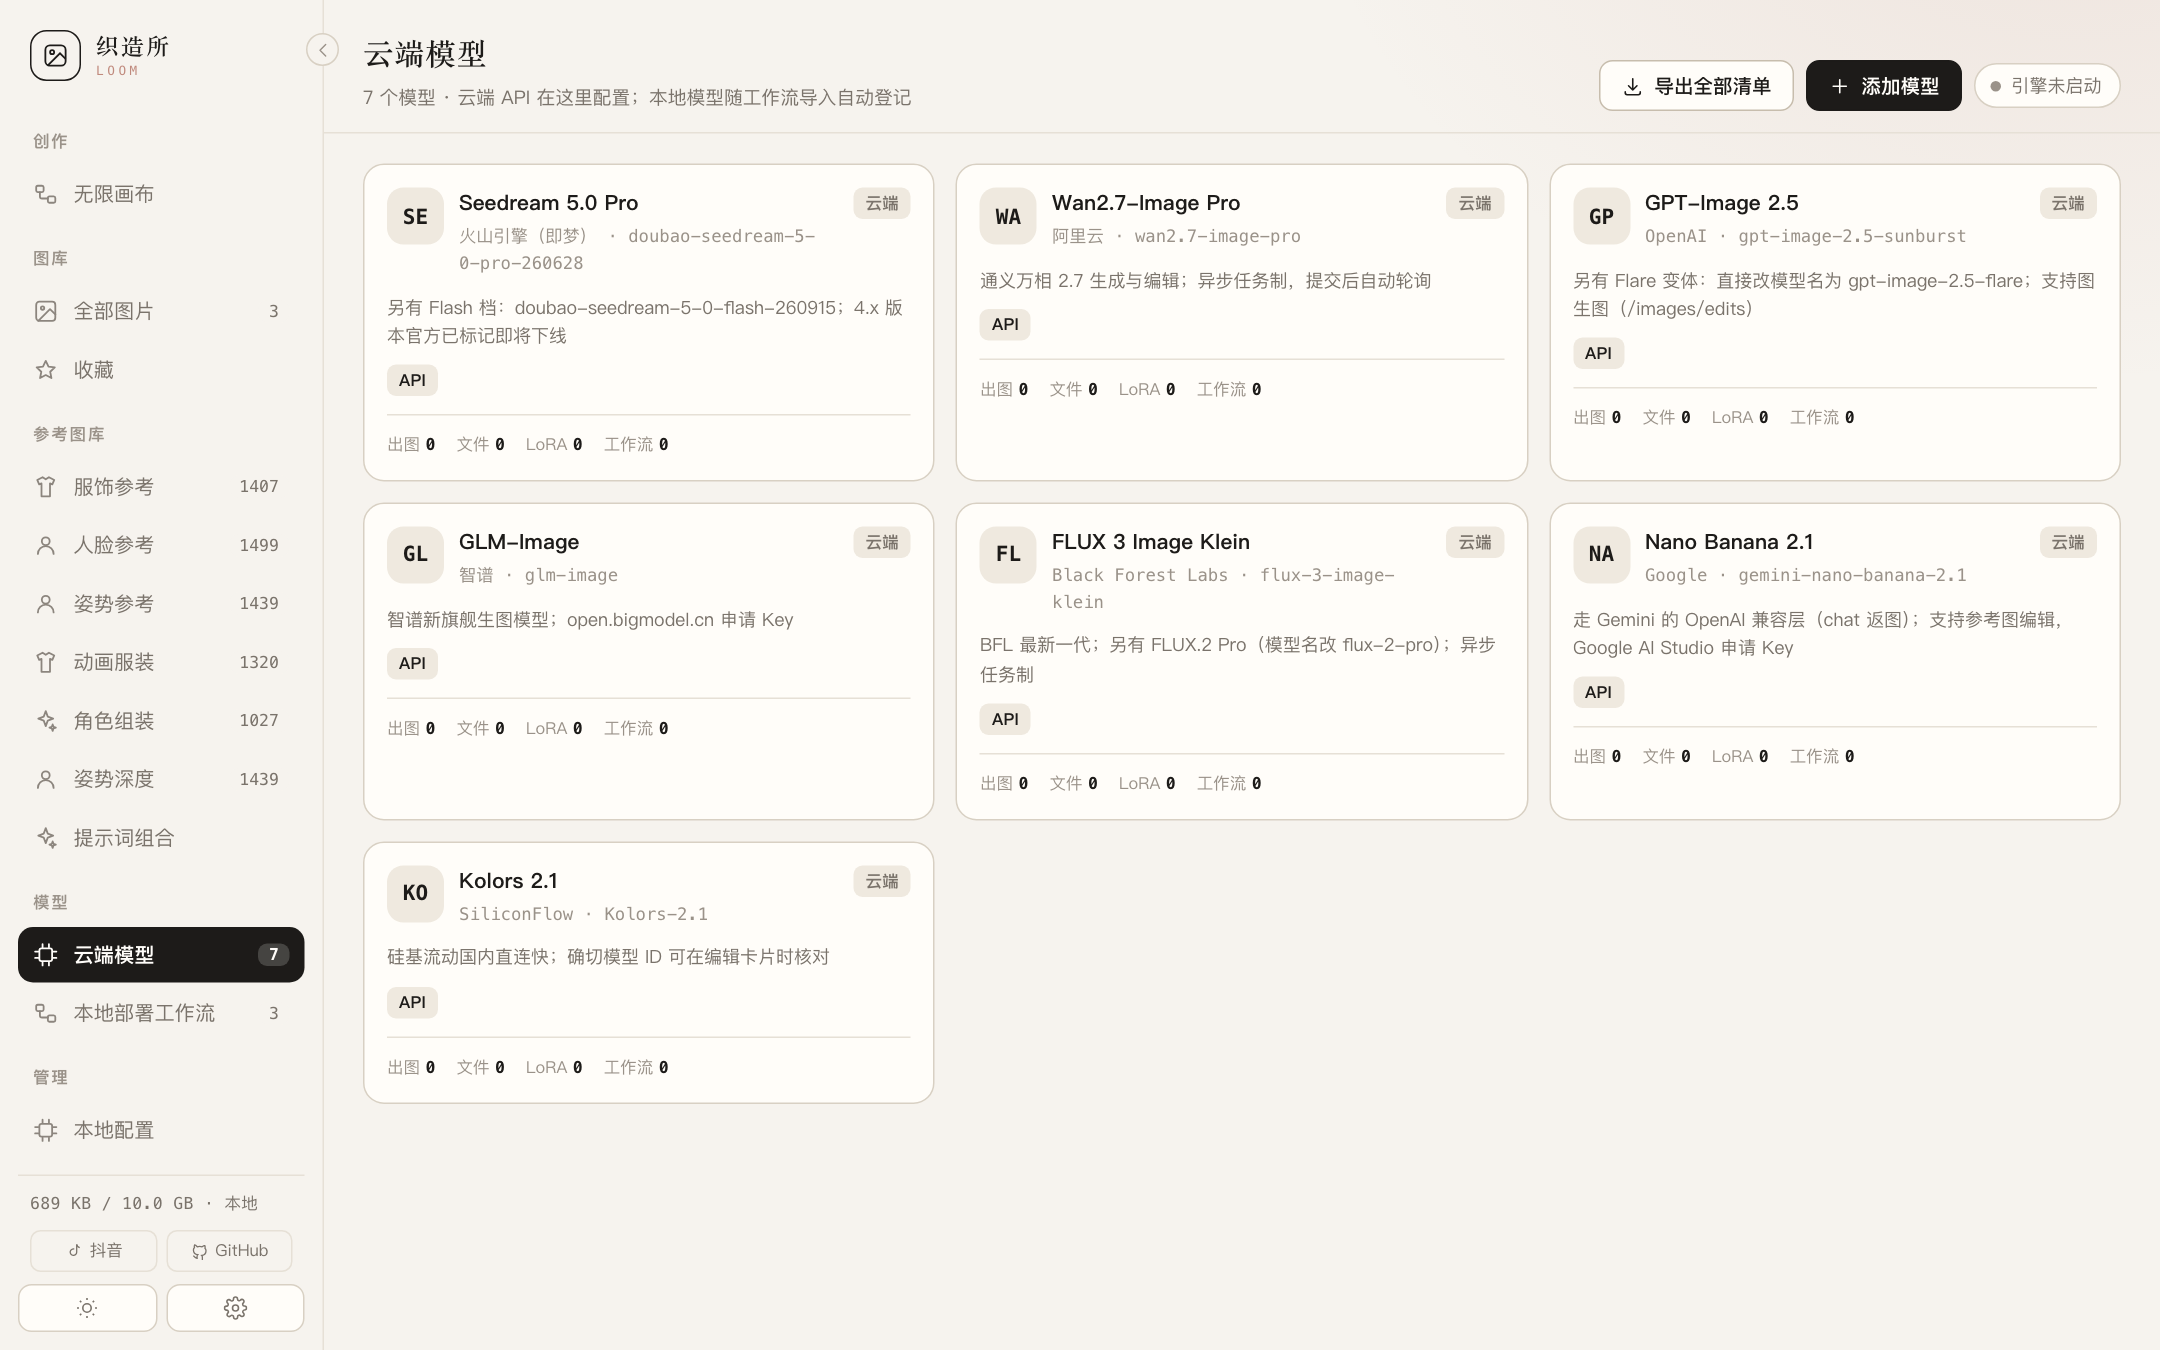
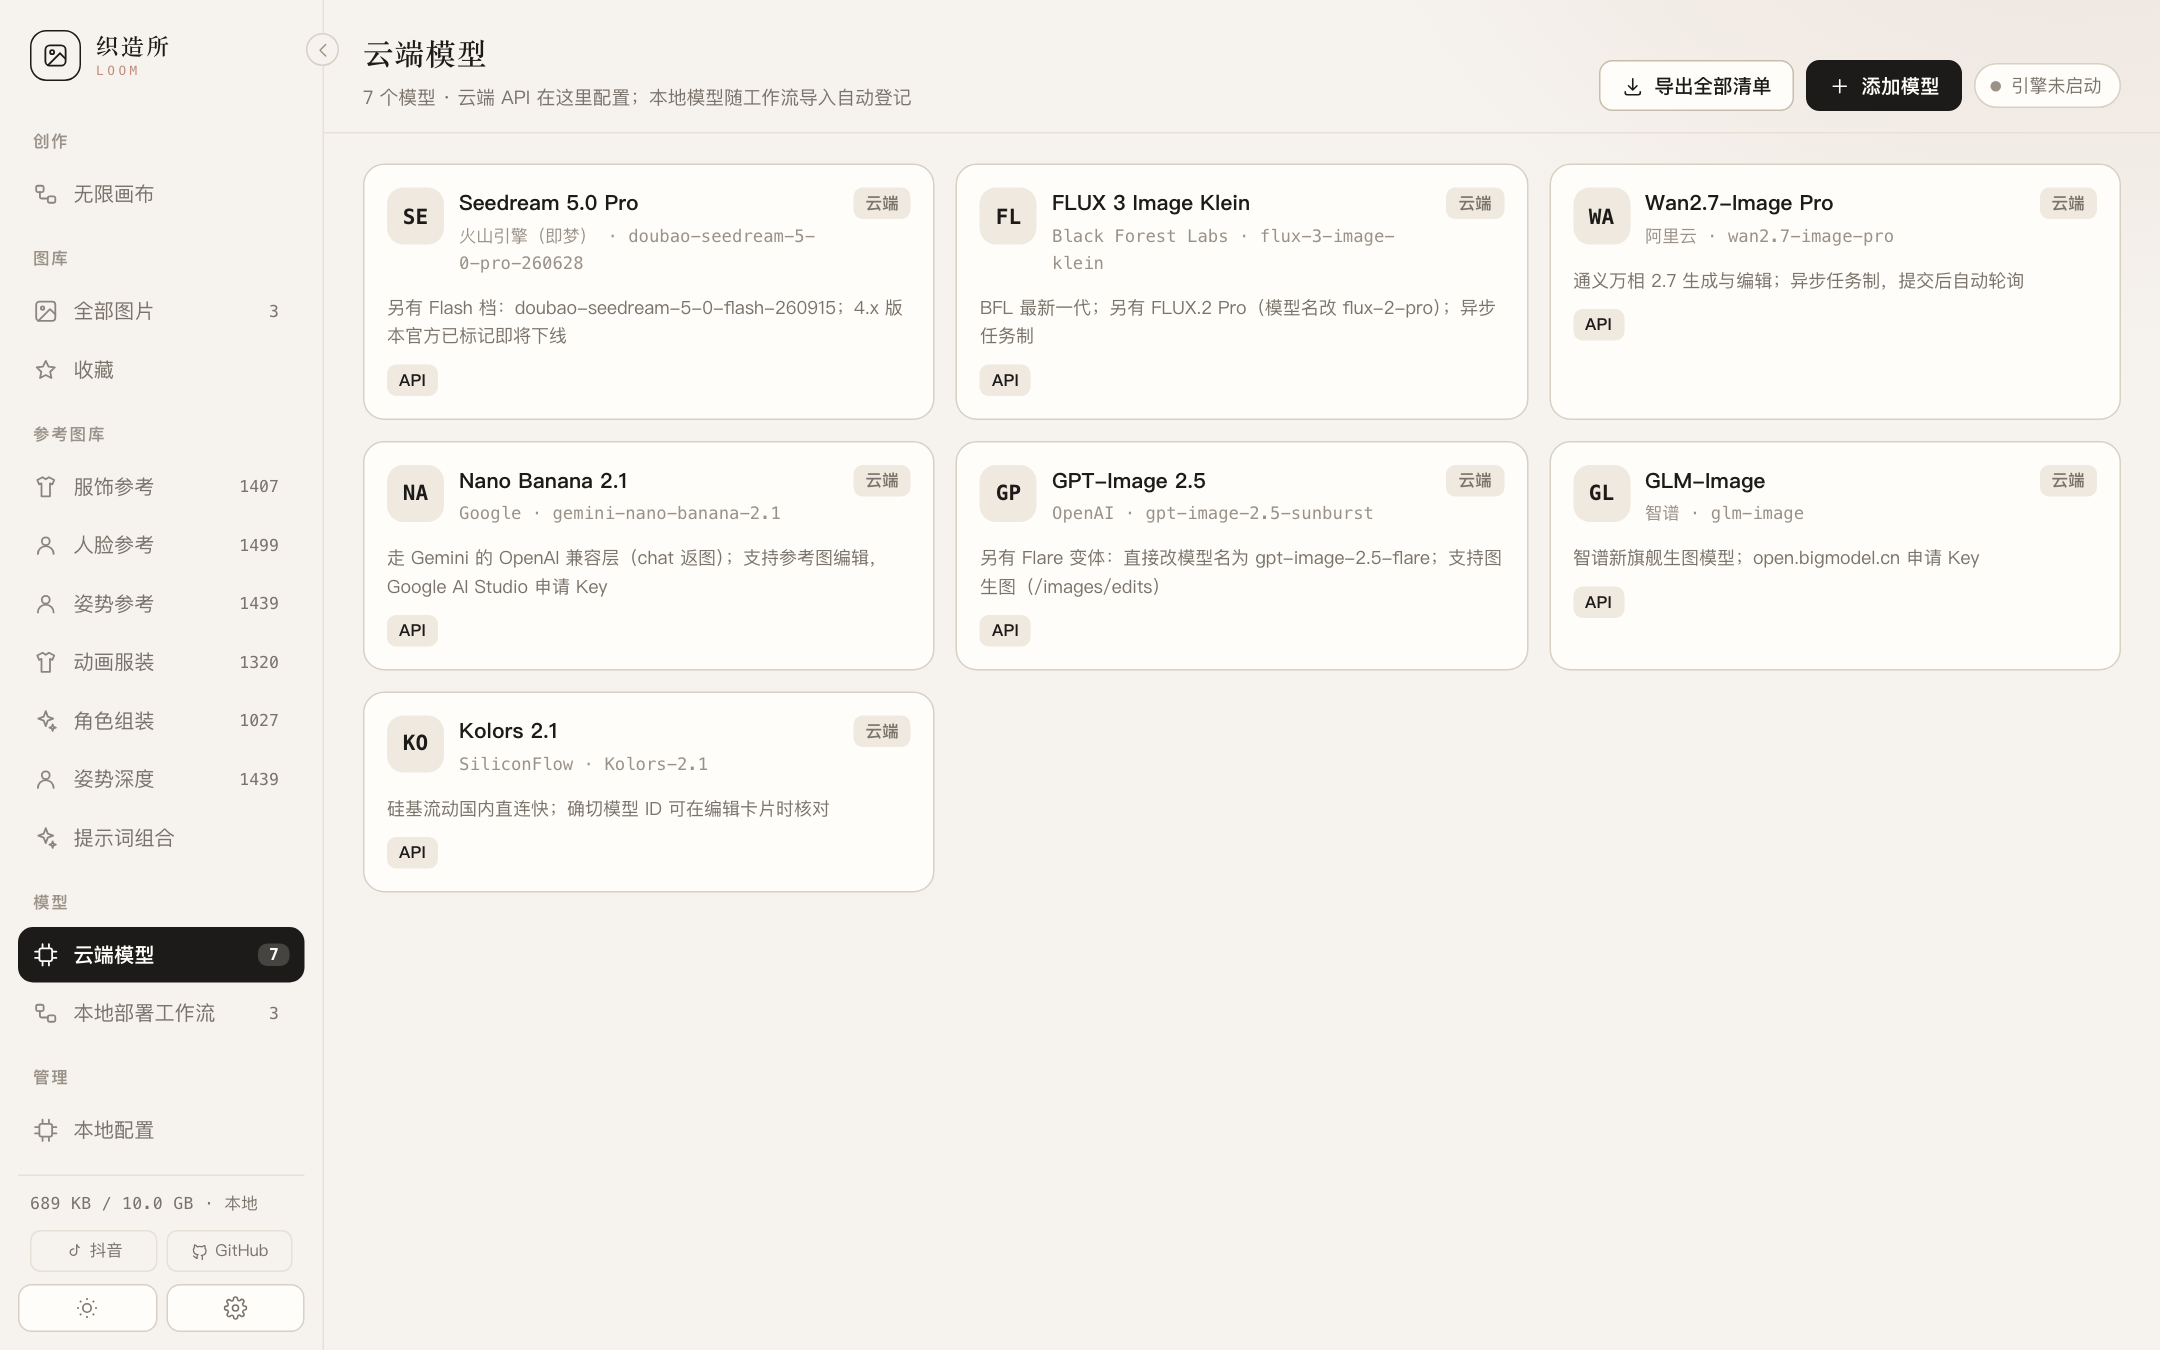
fix(ui): 云端模型卡片不再显示「出图/文件/LoRA/工作流」统计，详情页隐藏空的部署文件栏

diff --git a/assets/manage.js b/assets/manage.js
@@ -33,6 +33,9 @@
     const files = (m.files || []).length;
     const wfs = (m.workflowIds || []).length;
     const loras = (m.loraIds || []).length;
+    // 云端模型走 API，没有本地文件 / LoRA / 工作流关联，这一行统计对它永远是 0，
+    // 摆着反而像出错。只在本地部署的模型上显示。
+    const showMeta = m.type === 'local';
     return `<div class="model-card" data-act="model-open" data-id="${m.id}">
       <div class="model-card-head">
         <div class="model-card-icon">${esc((m.name || '?').slice(0, 2).toUpperCase())}</div>
@@ -48,12 +51,12 @@
         ${m.endpoint ? `<span class="badge mono">${esc(m.endpoint.replace(/^https?:\/\//, ''))}</span>` : ''}
         ${m.access ? `<span class="badge">${esc(m.access)}</span>` : ''}
       </div>
-      <div class="model-meta">
+      ${showMeta ? `<div class="model-meta">
         <span>出图 <b>${imgs}</b></span>
         <span>文件 <b>${files}</b></span>
         <span>LoRA <b>${loras}</b></span>
         <span>工作流 <b>${wfs}</b></span>
-      </div>
+      </div>` : ''}
     </div>`;
   }
 
@@ -271,6 +274,8 @@
     const loras = (m.loraIds || []).map(x => V.state.loras.find(l => l.id === x)).filter(Boolean);
     const wfs = (m.workflowIds || []).map(x => V.state.workflows.find(w => w.id === x)).filter(Boolean);
     const files = m.files || [];
+    // 云端模型没有本地部署文件，这一栏对它永远是空的，直接不显示
+    const showFiles = m.type === 'local' || files.length > 0;
 
     openModal({
       title: m.name,
@@ -282,14 +287,14 @@
           ${m.endpoint ? `<span class="badge mono">${esc(m.endpoint)}</span>` : ''}
           ${m.access ? `<span class="badge">${esc(m.access)}</span>` : ''}
           <div style="flex:1"></div>
-          ${m.endpoint ? `<button class="btn sm" data-open-url="${esc(m.endpoint)}">${icon('link', 12)} 打开 ComfyUI</button>` : ''}
+          ${m.endpoint ? `<button class="btn sm" data-open-url="${esc(m.endpoint)}">${icon('link', 12)} ${m.type === 'local' ? '打开 ComfyUI' : '打开接口地址'}</button>` : ''}
           <button class="btn sm" data-act="model-edit" data-id="${m.id}">${icon('edit', 12)} 编辑</button>
           <button class="btn sm" data-act="model-manifest" data-id="${m.id}">${icon('down', 12)} 部署清单</button>
         </div>
 
         ${m.desc ? `<p style="font-size:12.5px;color:var(--text-2);line-height:1.7;margin:0 0 14px">${esc(m.desc)}</p>` : ''}
 
-        <div class="section" style="margin-top:0">
+        ${showFiles ? `<div class="section" style="margin-top:0">
           <div class="section-title">部署文件（${files.length}）<span></span></div>
           ${files.length ? `<table class="file-table">
             <thead><tr><th style="width:130px">类型</th><th>文件</th><th style="width:80px">体积</th><th style="width:70px">链接</th></tr></thead>
@@ -300,7 +305,7 @@
               <td>${f.url ? `<a href="${esc(f.url)}" target="_blank" rel="noopener">下载</a>` : '<span style="color:var(--text-3)">—</span>'}</td>
             </tr>`).join('')}</tbody>
           </table>` : `<p style="font-size:12px;color:var(--text-3);margin:0">还没有登记文件。点「编辑」把 checkpoint / LoRA / VAE 的下载链接加进去。</p>`}
-        </div>
+        </div>` : ''}
 
         ${loras.length ? `<div class="section">
           <div class="section-title">关联 LoRA（${loras.length}）<span></span></div>
